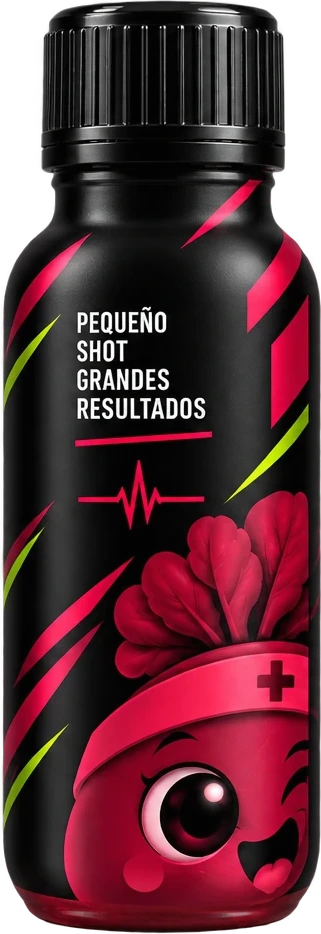
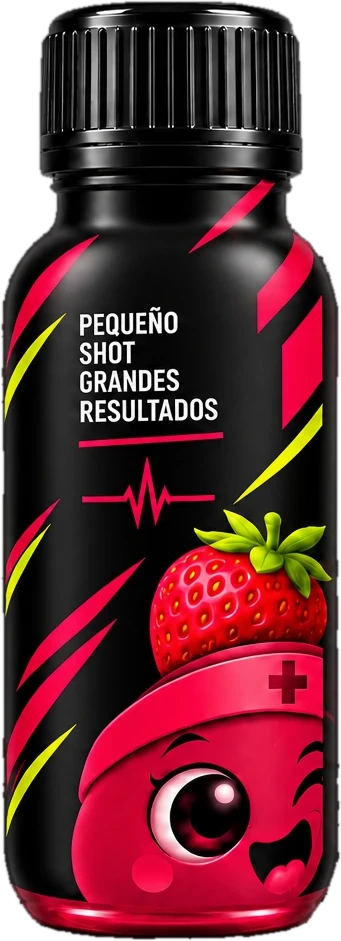
Nuevas botellas con etiqueta Remolacha · Fresa · Limón

diff --git a/producto.html b/producto.html
@@ -51,7 +51,7 @@
         <div class="showcase showcase--lime" data-reveal>
           <span class="sticker sticker--1">60 ml</span>
           <span class="sticker sticker--2">Shot funcional</span>
-          <img src="assets/img/pulso-botella-34.webp" alt="Botella de PULSO+ de 60 ml en vista tres cuartos, con beneficios, logo y la mascota Beti" width="344" height="956" fetchpriority="high">
+          <img src="assets/img/pulso-botella-34.webp" alt="Botella de PULSO+ de 60 ml en vista tres cuartos, con beneficios, logo y la mascota Beti" width="364" height="960" fetchpriority="high">
         </div>
       </div>
     </section>
@@ -80,15 +80,15 @@
         </div>
         <div class="grid-3">
           <figure class="card card--p1" style="margin:0" data-reveal>
-            <div class="showcase" style="min-height:420px"><img src="assets/img/pulso-botella-beneficios.webp" alt="Lateral con los tres beneficios de PULSO+" width="317" height="929" loading="lazy"></div>
+            <div class="showcase" style="min-height:420px"><img src="assets/img/pulso-botella-beneficios.webp" alt="Lateral con los tres beneficios de PULSO+" width="333" height="941" loading="lazy"></div>
             <figcaption class="subheading">Los beneficios</figcaption>
           </figure>
           <figure class="card card--p2" style="margin:0" data-reveal>
-            <div class="showcase" style="min-height:420px"><img src="assets/img/pulso-botella-frente.webp" alt="Frente de la botella con el logo PULSO+ y Beti" width="342" height="934" loading="lazy"></div>
+            <div class="showcase" style="min-height:420px"><img src="assets/img/pulso-botella-frente.webp" alt="Frente de la botella con el logo PULSO+ y Beti" width="355" height="941" loading="lazy"></div>
             <figcaption class="subheading">El frente</figcaption>
           </figure>
           <figure class="card card--p3" style="margin:0" data-reveal>
-            <div class="showcase" style="min-height:420px"><img src="assets/img/pulso-botella-frase.webp" alt="Lateral con la frase pequeño shot, grandes resultados" width="321" height="934" loading="lazy"></div>
+            <div class="showcase" style="min-height:420px"><img src="assets/img/pulso-botella-frase.webp" alt="Lateral con la frase pequeño shot, grandes resultados" width="341" height="941" loading="lazy"></div>
             <figcaption class="subheading">La promesa</figcaption>
           </figure>
         </div>

diff --git a/beneficios.html b/beneficios.html
@@ -51,7 +51,7 @@
         <div class="showcase showcase--lime" data-reveal>
           <span class="sticker sticker--1">Energía natural</span>
           <span class="sticker sticker--2">Antioxidantes</span>
-          <img src="assets/img/pulso-botella-beneficios.webp" alt="Lateral de la botella PULSO+: energía natural, antioxidantes y defensas, rendimiento y enfoque" width="317" height="929" fetchpriority="high">
+          <img src="assets/img/pulso-botella-beneficios.webp" alt="Lateral de la botella PULSO+: energía natural, antioxidantes y defensas, rendimiento y enfoque" width="333" height="941" fetchpriority="high">
         </div>
       </div>
     </section>

diff --git a/index.html b/index.html
@@ -61,7 +61,7 @@
           <span class="sticker sticker--1">100% natural</span>
           <span class="sticker sticker--lime sticker--2">Sin azúcar añadida</span>
           <span class="sticker sticker--3">60 ml</span>
-          <img src="assets/img/pulso-botella-frente.webp" alt="Botella de PULSO+ de 60 ml con la mascota Beti en la etiqueta" width="342" height="934" fetchpriority="high">
+          <img src="assets/img/pulso-botella-frente.webp" alt="Botella de PULSO+ de 60 ml con la mascota Beti en la etiqueta" width="355" height="941" fetchpriority="high">
         </div>
       </div>
     </section>

diff --git a/faq.html b/faq.html
@@ -84,7 +84,7 @@
         <div class="showcase showcase--maroon" data-reveal>
           <span class="sticker sticker--lime sticker--1">Pequeño shot</span>
           <span class="sticker sticker--2">Grandes resultados</span>
-          <img src="assets/img/pulso-botella-frase.webp" alt="Lateral de la botella PULSO+: pequeño shot, grandes resultados" width="321" height="934" loading="lazy">
+          <img src="assets/img/pulso-botella-frase.webp" alt="Lateral de la botella PULSO+: pequeño shot, grandes resultados" width="341" height="941" loading="lazy">
         </div>
       </div>
     </section>
